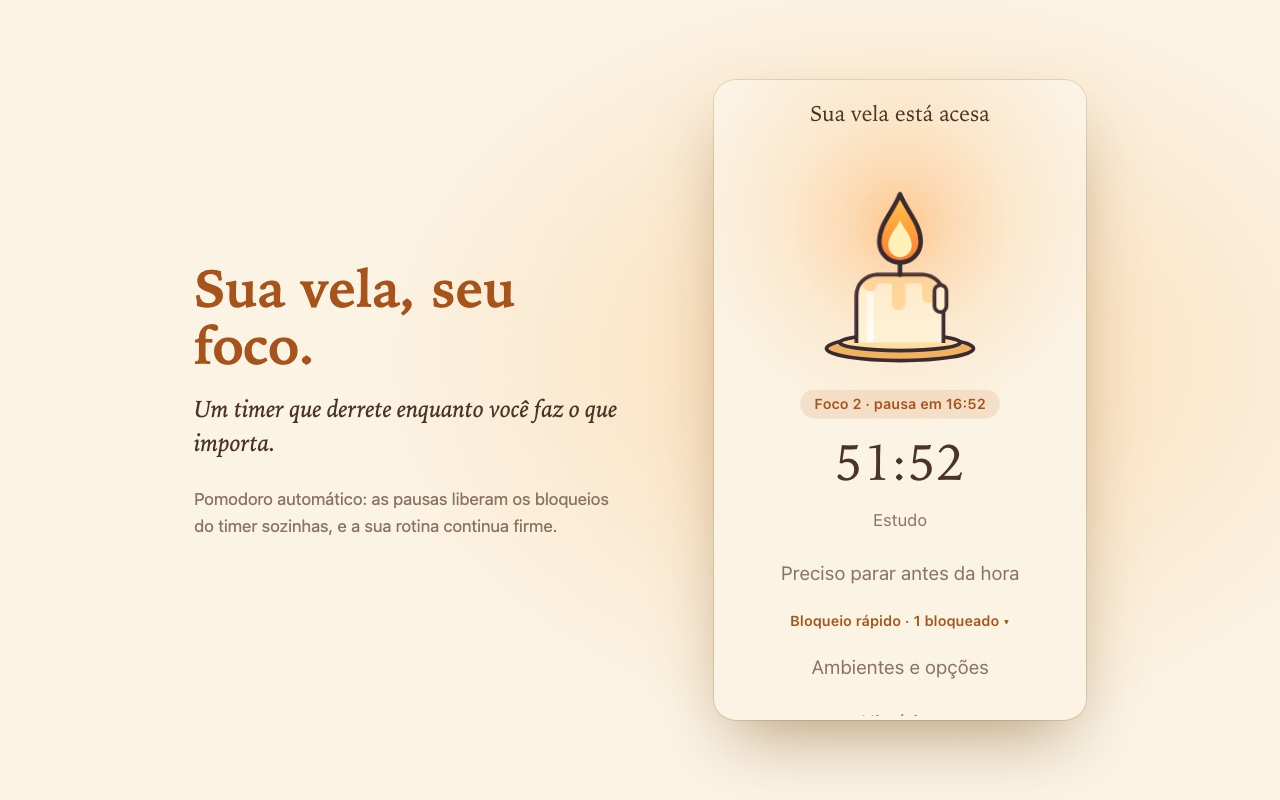
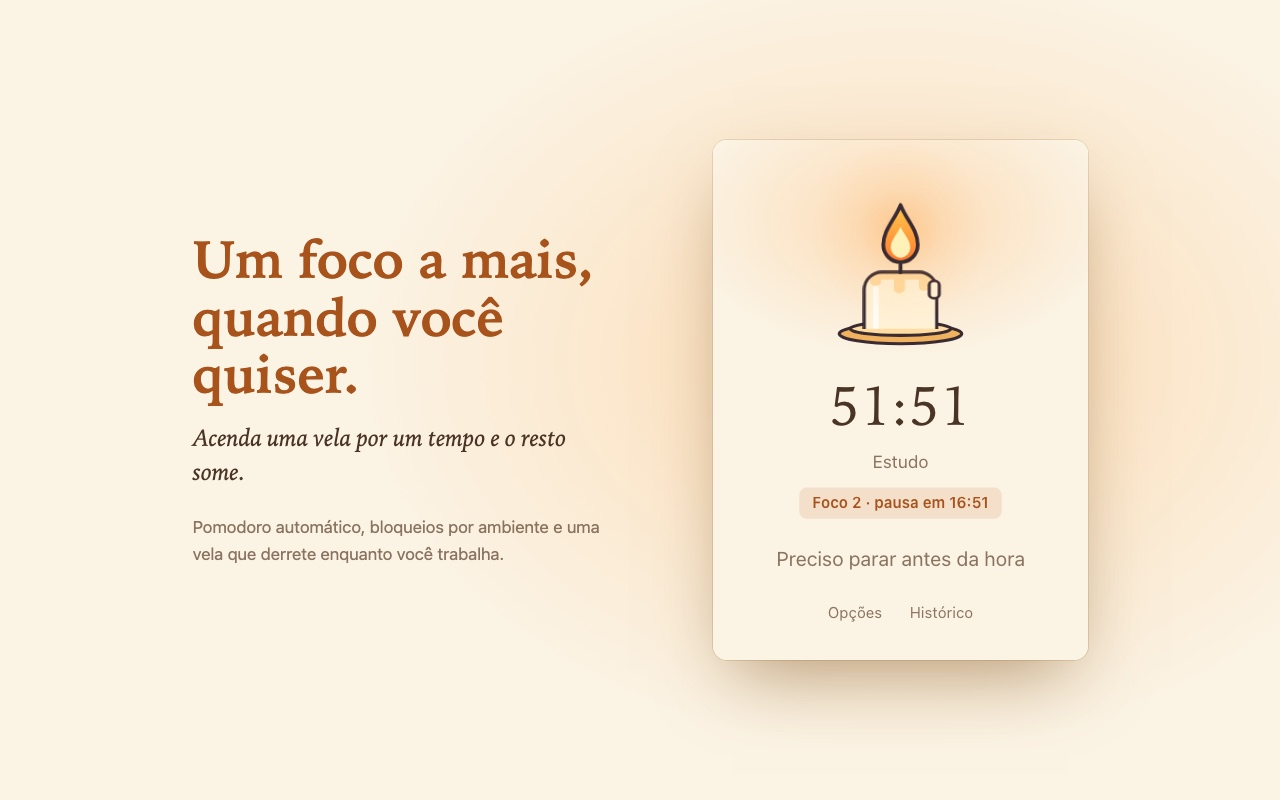
Popup minimalista: só o foco por tempo
Vela, ambiente, duração e Acender vela; modo, Pomodoro e links do YouTube
em Mais opções (recolhido). Bordas levemente arredondadas (8px). Removidos
o bloqueio rápido e o status da rotina do popup. Captura da loja atualizada.

diff --git a/src/ui/popup/main.tsx b/src/ui/popup/main.tsx
@@ -18,8 +18,6 @@ import { pomodoroError, youtubeUi } from '../i18n/pt-BR';
 import { ensureHostAccess } from '../../platform/chrome/permissions';
 import { createServices } from '../../platform/chrome/services';
 import { initTheme } from '../shared/theme';
-import { RoutineStatus } from '../shared/RoutineStatus';
-import { QuickBlock } from './QuickBlock';
 import { useNow } from '../shared/useNow';
 import { useStorageValue } from '../shared/useStorageValue';
 
@@ -68,8 +66,6 @@ function StartForm({ skin }: { skin: string }) {
 
   return (
     <>
-      <p class="greeting">Vamos acender uma vela?</p>
-      <RoutineStatus />
       <div class="popup-candle small"><Candle skin={skin} progress={1} lit={false} label="Vela apagada" /></div>
       <form class="form" onSubmit={(e) => { e.preventDefault(); void start(); }}>
         <label>
@@ -81,37 +77,39 @@ function StartForm({ skin }: { skin: string }) {
 
         <div>
           <span class="lbl">Duração</span>
-          <div class="chips">
+          <div class="seg" role="group" aria-label="Duração">
             {DURATION_PRESETS_MIN.map((m) => (
-              <button type="button" class="chip" aria-pressed={!custom && minutes === m}
-                onClick={() => { setCustom(false); setMinutes(m); }}>{m} min</button>
+              <button type="button" aria-pressed={!custom && minutes === m} onClick={() => { setCustom(false); setMinutes(m); }}>{m} min</button>
             ))}
-            <button type="button" class="chip" aria-pressed={custom} onClick={() => setCustom(true)}>Outro</button>
+            <button type="button" aria-pressed={custom} onClick={() => setCustom(true)}>Outro</button>
           </div>
           {custom && (
-            <input class="field full" type="number" min={MIN_DURATION_MIN} max={MAX_DURATION_MIN} value={minutes}
+            <input class="field full minutes" type="number" min={MIN_DURATION_MIN} max={MAX_DURATION_MIN} value={minutes}
               aria-label="Minutos" onInput={(e) => setMinutes(Number(e.currentTarget.value))} />
           )}
         </div>
 
-        {usesYouTube && (
-          <details class="yt">
-            <summary>{youtubeUi.summary}</summary>
-            <textarea class="field full" rows={4} placeholder={youtubeUi.placeholder} value={links}
-              onInput={(e) => setLinks(e.currentTarget.value)} spellcheck={false} />
-            <p class="hint">{youtubeUi.help}</p>
-          </details>
-        )}
-
-        <PomodoroFields value={pomodoro} onChange={setPomodoro} />
-
-        <div>
-          <span class="lbl">Modo</span>
-          <div class="chips">
-            <button type="button" class="chip" title="Desistir dá trabalho, de propósito" aria-pressed={strictness === 'focus'} onClick={() => setStrictness('focus')}>Foco</button>
-            <button type="button" class="chip" title="Você pode parar com uma confirmação" aria-pressed={strictness === 'light'} onClick={() => setStrictness('light')}>Leve</button>
+        <details class="more">
+          <summary>Mais opções</summary>
+          <div class="more-body">
+            <div>
+              <span class="lbl">Ao parar antes da hora</span>
+              <div class="seg" role="group" aria-label="Modo">
+                <button type="button" title="Desistir dá trabalho, de propósito" aria-pressed={strictness === 'focus'} onClick={() => setStrictness('focus')}>Foco</button>
+                <button type="button" title="Você pode parar com uma confirmação" aria-pressed={strictness === 'light'} onClick={() => setStrictness('light')}>Leve</button>
+              </div>
+            </div>
+            <PomodoroFields value={pomodoro} onChange={setPomodoro} />
+            {usesYouTube && (
+              <label>
+                <span class="lbl">{youtubeUi.summary}</span>
+                <textarea class="field full" rows={3} placeholder={youtubeUi.placeholder} value={links}
+                  onInput={(e) => setLinks(e.currentTarget.value)} spellcheck={false} />
+                <span class="hint">{youtubeUi.help}</span>
+              </label>
+            )}
           </div>
-        </div>
+        </details>
 
         {error && <p class="error" role="alert">{error}</p>}
         <button class="btn btn-primary full" type="submit" disabled={!envs.length}>Acender vela</button>
@@ -131,8 +129,9 @@ function Running({ session, skin, now }: { session: Session; skin: string; now: 
   }
   return (
     <>
-      <p class="greeting">Sua vela está acesa</p>
       <div class="popup-candle"><Candle skin={skin} progress={candleProgress(session, now)} label="Vela acesa, sessão em andamento" /></div>
+      <p class="time">{formatRemaining(Math.min(remainingMs(session, now), session.plannedMs))}</p>
+      <p class="sub">{session.environmentSnapshot.name}</p>
       {phase && (
         <p class={`phase ${phase.phase}`} role="status">
           {phase.phase === 'break'
@@ -140,10 +139,6 @@ function Running({ session, skin, now }: { session: Session; skin: string; now: 
             : `Foco ${phase.cycle} · pausa em ${formatRemaining(phase.end - now)}`}
         </p>
       )}
-      <p class="time">{formatRemaining(Math.min(remainingMs(session, now), session.plannedMs))}</p>
-      <p class="sub">
-        {session.environmentSnapshot.name}
-      </p>
       <button class="btn btn-ghost" onClick={stop}>Preciso parar antes da hora</button>
     </>
   );
@@ -166,11 +161,10 @@ function Popup() {
   return (
     <main class="popup">
       {!loaded ? null : active ? <Running session={active} skin={skin} now={now} /> : <StartForm skin={skin} />}
-      <QuickBlock />
-      <div class="links">
-        <button class="btn btn-ghost" onClick={() => chrome.runtime.openOptionsPage()}>Ambientes e opções</button>
-        <button class="btn btn-ghost" onClick={() => chrome.tabs.create({ url: chrome.runtime.getURL('src/ui/options/index.html#historico') })}>Histórico</button>
-      </div>
+      <nav class="foot" aria-label="Atalhos">
+        <button onClick={() => chrome.runtime.openOptionsPage()}>Opções</button>
+        <button onClick={() => chrome.tabs.create({ url: chrome.runtime.getURL('src/ui/options/index.html#historico') })}>Histórico</button>
+      </nav>
     </main>
   );
 }

diff --git a/src/ui/popup/popup.css b/src/ui/popup/popup.css
@@ -1,38 +1,44 @@
-body { width: 310px; }
-.popup { display: flex; flex-direction: column; align-items: center; gap: 4px; padding: 14px 20px 8px;
-  background: radial-gradient(ellipse 80% 45% at 50% 20%, var(--glow), transparent 70%); }
-.greeting { margin: 0; font-family: var(--font-display); font-size: 18px; text-align: center; }
-.popup-candle { width: 150px; margin: 4px 0; }
-.popup-candle.small { width: 64px; margin: 0; }
-.time { margin: 0; font-family: var(--font-display); font-size: 42px; letter-spacing: .02em; font-variant-numeric: tabular-nums; }
-.sub { margin: 0 0 8px; color: var(--muted); font-size: 14px; }
-.form { width: 100%; display: flex; flex-direction: column; gap: 9px; margin-top: 2px; }
-.full { width: 100%; }
-.lbl { display: block; font-size: 12px; color: var(--muted); margin-bottom: 3px; font-weight: 600; }
-.chips { display: flex; gap: 5px; flex-wrap: wrap; margin-bottom: 4px; }
-.chip { background: var(--surface); border: 1px solid var(--border); border-radius: 999px; padding: 4px 10px; font-size: 13px; transition: all .15s; }
-.chip:hover { border-color: var(--muted); }
-.chip[aria-pressed="true"] { background: var(--accent); color: var(--accent-ink); border-color: transparent; font-weight: 650; }
-.hint { margin: 0; font-size: 12px; color: var(--muted); }
-.error { margin: 0; font-size: 13px; color: var(--danger); }
-.yt summary { cursor: pointer; font-size: 13px; color: var(--accent-text); font-weight: 600; margin-bottom: 6px; }
-.yt textarea { resize: vertical; font-size: 12px; margin-bottom: 4px; }
-.links { display: flex; gap: 2px; flex-wrap: wrap; justify-content: center; }
-.next { margin: 0; font-size: 12px; color: var(--accent-text); font-weight: 600; text-align: center; }
-.sched-tag { display: block; margin-top: 2px; font-size: 12px; color: var(--accent-text); font-weight: 600; }
-.phase { margin: 0; padding: 3px 12px; border-radius: 999px; font-size: 12px; font-weight: 600; background: color-mix(in srgb, var(--accent) 14%, transparent); color: var(--accent-text); }
-.phase.break { background: color-mix(in srgb, var(--ok) 16%, transparent); color: var(--ok); }
-.routine-line { margin: 0; background: transparent; border: 0; padding: 2px 8px; font-size: 12px; color: var(--muted); text-align: center; border-radius: 999px; }
-.routine-line:hover { background: var(--surface-2); color: var(--text); }
-.routine-line.on { color: var(--accent-text); font-weight: 600; }
-.routine-line.off { color: var(--accent-text); text-decoration: underline; }
+/* Popup minimalista: só o foco por tempo. Bordas levemente arredondadas (8 px), sem pílulas. */
+body { width: 300px; }
+.popup { --r: 8px; display: flex; flex-direction: column; align-items: center; gap: 10px; padding: 16px 18px 10px;
+  background: radial-gradient(ellipse 80% 38% at 50% 16%, var(--glow), transparent 72%); }
+.popup .btn, .popup .field, .popup .seg { border-radius: var(--r); }
+.popup .btn { padding: 9px 14px; }
+.popup .btn-primary { box-shadow: none; }
+.popup-candle { width: 120px; }
+.popup-candle.small { width: 64px; }
 
-.quick { width: 100%; margin-top: 2px; }
-.quick summary { cursor: pointer; font-size: 12px; font-weight: 600; color: var(--accent-text); text-align: center; list-style: none; padding: 2px 0; }
-.quick summary::-webkit-details-marker { display: none; }
-.quick summary::after { content: ' ▾'; }
-.quick[open] summary::after { content: ' ▴'; }
-.quick-chips { display: flex; flex-wrap: wrap; gap: 5px; justify-content: center; margin: 6px 0 4px; }
-.chip.block[aria-pressed="true"] { background: var(--mode-blocked); color: #fff; border-color: transparent; }
-:root[data-theme='night'] .chip.block[aria-pressed="true"] { color: #2a0a05; }
-.quick .hint { text-align: center; }
+.form { width: 100%; display: flex; flex-direction: column; gap: 14px; }
+.full { width: 100%; }
+.lbl { display: block; font-size: 12px; color: var(--muted); margin-bottom: 5px; font-weight: 600; }
+.hint { display: block; margin-top: 4px; font-size: 12px; color: var(--muted); }
+.error { margin: 0; font-size: 13px; color: var(--danger); }
+.field { padding: 8px 10px; }
+.minutes { margin-top: 8px; }
+
+/* escolha única, em faixa contínua */
+.seg { display: flex; border: 1px solid var(--border); overflow: hidden; background: var(--surface); }
+.seg button { flex: 1; background: transparent; border: 0; border-left: 1px solid var(--border); padding: 8px 4px; font-size: 13px; color: var(--muted); transition: background .15s, color .15s; }
+.seg button:first-child { border-left: 0; }
+.seg button:hover { color: var(--text); background: var(--surface-2); }
+.seg button[aria-pressed="true"] { background: var(--accent); color: var(--accent-ink); font-weight: 650; }
+
+.more summary { cursor: pointer; font-size: 13px; color: var(--muted); list-style: none; padding: 2px 0; }
+.more summary::-webkit-details-marker { display: none; }
+.more summary::before { content: '＋ '; }
+.more[open] summary::before { content: '－ '; }
+.more summary:hover { color: var(--text); }
+.more-body { display: flex; flex-direction: column; gap: 14px; padding-top: 10px; }
+.more textarea { resize: vertical; font-size: 12px; }
+/* Pomodoro dentro de "Mais opções": sem caixa */
+.popup .pomo { border: 0; padding: 0; background: transparent; border-radius: 0; }
+
+/* em andamento */
+.time { margin: 2px 0 0; font-family: var(--font-display); font-size: 44px; line-height: 1.1; letter-spacing: .02em; font-variant-numeric: tabular-nums; }
+.sub { margin: 0; color: var(--muted); font-size: 14px; }
+.phase { margin: 0; padding: 3px 10px; border-radius: 6px; font-size: 12px; font-weight: 600; background: color-mix(in srgb, var(--accent) 14%, transparent); color: var(--accent-text); }
+.phase.break { background: color-mix(in srgb, var(--ok) 16%, transparent); color: var(--ok); }
+
+.foot { display: flex; gap: 14px; justify-content: center; }
+.foot button { background: transparent; border: 0; padding: 2px 4px; font-size: 12px; color: var(--muted); }
+.foot button:hover { color: var(--text); text-decoration: underline; }

diff --git a/CLAUDE.md b/CLAUDE.md
@@ -107,7 +107,7 @@ Evitar: `tabs`, `history`, `webNavigation`, `scripting`, `<all_urls>` obrigatór
 ## Rotina por site e horário (`core/routine.ts`, `core/policy.ts`, `core/policy-service.ts`, `ui/options/RoutineTab.tsx`)
 - **Rotina** = lista de sites (`RoutineSite`), cada um com **faixas** (`RoutineSlot`: dias da semana + `startMin`/`endMin` + o que fazer: `blocked` ou `restricted` com `restrictedKind`/`features`). Fora das faixas o site fica liberado. `endMin <= startMin` vira a noite; `endMin = 1440` = até o fim do dia; **dia todo + todos os dias = "para sempre"**. Funciona **sozinha, sem vela**, e substitui as antigas "faixas de horário" (migração v3 converte as faixas existentes; quem não tinha recebe a programação pronta).
 - **Rotina LIMPA por padrão** (`defaultRoutine() = []`): nada vem bloqueado nem programado; a pessoa escolhe sites, horários e o que fazer. (A v3 instalava uma "programação pronta" desligada; a migração **v4** limpa quem ficou com ela sem alterar e liga os horários; quem personalizou não é tocado.) `Settings.routineEnabled` vem **ligado** (rotina vazia não faz nada) e controla só as **faixas de horário**. Uma faixa nova **não vem com Bloqueado/Restrito pré-escolhido**: o editor exige escolher (`mode:invalid`). Na primeira instalação o service worker abre `options#rotina`.
-- **Bloqueio rápido** (`RoutineSite.blockAll`, `setBlockAll`/`isBlockedAll` em `core/routine.ts`): bloqueia o **app inteiro, o tempo todo, com um clique**. Painel no topo da Rotina (um botão por app + "Bloquear/Liberar todos" + campo para outro site) e atalho **recolhido no popup** (`popup/QuickBlock.tsx`). **Vale mesmo com os horários desligados** (é uma ação direta); desligar o site na rotina o libera. Em `activeRules`/`rulesAnyTime` entra como `blocked` (a mais rigorosa) e a linha do site vira uma barra cheia "Bloqueado o tempo todo". Pede o acesso ao site no clique e a confirmação ao liberar (`loosensNow`).
+- **Bloqueio rápido** (`RoutineSite.blockAll`, `setBlockAll`/`isBlockedAll` em `core/routine.ts`): bloqueia o **app inteiro, o tempo todo, com um clique**. Painel no topo da Rotina (um botão por app + "Bloquear/Liberar todos" + campo para outro site) (o atalho que existiu no popup foi removido: o popup é só do Timer). **Vale mesmo com os horários desligados** (é uma ação direta); desligar o site na rotina o libera. Em `activeRules`/`rulesAnyTime` entra como `blocked` (a mais rigorosa) e a linha do site vira uma barra cheia "Bloqueado o tempo todo". Pede o acesso ao site no clique e a confirmação ao liberar (`loosensNow`).
 - **Timer = foco extra:** a vela (sessão) com um **Ambiente** continua existindo; as regras do ambiente valem **por cima** da rotina durante o Timer. Ambientes agora servem só ao Timer (aba "Ambientes (Timer)").
 - **Política** (`Policy`, chave `policy`): `computePolicy({routine, routineEnabled, session, now})` = regras da rotina ativas agora + regras do Timer (se `enforcing`), por site **vale a mais rigorosa** (`combineSpecs`: bloqueado > esconder partes (soma os recursos) > intenção). Na pausa do Pomodoro some só a parte do Timer; a rotina continua firme. Também traz `youtubeAllowlist` (da vela) e `nextChange` (para "volta a liberar às…").
 - **Quem escreve/quem lê:** `PolicyService.sync()` (idempotente) conclui a vela vencida, calcula e grava a política (só se mudou), descarta permissões de intenção que não valem mais (`IntentService.prune`) e agenda o alarme `routine-boundary` para a próxima virada de faixa. Bloqueio (DNR, `planFor(policy)`) e **content scripts** só **leem `policy`** (`restrictionFor(policy, …)`, `youtubeRestriction(policy)`), nunca a sessão.
@@ -124,7 +124,8 @@ Evitar: `tabs`, `history`, `webNavigation`, `scripting`, `<all_urls>` obrigatór
 - `pomodoroAt(config, startedAt, endsAt, now)` é puro e determinístico (por isso vale mesmo com o navegador fechado). A fase atual fica gravada em `Session.pomodoro` (`phase`, `cycle`, `long`, `phaseEndsAt`).
 - `SessionService.syncPomodoro` (chamado em `start`, `startScheduled` e `reconcile`) mantém a fase gravada em dia, notifica a troca ("Hora da pausa" / "De volta ao foco") e agenda o alarme `pomodoro-phase` para a próxima troca. Quem bloqueia/restringe **só lê a política**: `computePolicy` usa `enforcing(session)` (sessão ativa e fora da pausa) para incluir ou não a parte do Timer. Gravar a nova fase dispara `syncAll` via `storage.onChanged`, que regrava a política.
 - Na pausa: as regras **do Timer** saem da política (a rotina continua), então DNR e content scripts soltam só o que o Timer acrescentava, a página de bloqueio mostra "Hora da pausa" com botão para abrir o site e a de intenção segue direto. Concedidas permissões de intenção são mantidas.
-- Popup: mostra "Foco N · pausa em mm:ss" / "Pausa · mm:ss · bloqueios liberados" (calculado pelo relógio local). Campos compartilhados: `ui/shared/PomodoroFields.tsx`. O popup tem limite de ~600 px de altura (Chrome): cuidado ao adicionar campos.
+- Popup: mostra "Foco N · pausa em mm:ss" / "Pausa · mm:ss · bloqueios liberados" (calculado pelo relógio local). Campos compartilhados: `ui/shared/PomodoroFields.tsx`.
+- **Popup minimalista (só o Timer):** vela, ambiente, duração (faixa contínua 25/50/90/Outro) e "Acender vela"; modo (foco/leve), Pomodoro e links do YouTube ficam em **"Mais opções"** recolhido; rodapé "Opções · Histórico". Bordas levemente arredondadas (`--r: 8px`, sem pílulas) só no popup. Parado tem ~390 px (limite do Chrome: ~600 px); com Mais opções aberto e tudo ligado passa disso e rola. Sem bloqueio rápido nem status da rotina aqui (isso é da aba Rotina).
 
 ## Chrome Web Store (`store/`, `scripts/`)
 - `npm run package` → build + `release/pavio-<versão>.zip` (confere se a versão do manifest bate com a do package.json; `release/` está no `.gitignore`). `publicDir: false` no Vite: os ícones vão só em `public/icons/` (referenciados pelo manifest), sem duplicar.

diff --git a/store/privacy-practices.md b/store/privacy-practices.md
@@ -72,5 +72,5 @@ Não é necessária conta nem login para testar o fluxo principal.
 3. Abra reddit.com em uma nova aba: a navegação é redirecionada para a página da vela (bloqueio). Clique de novo no botão do reddit.com e o site volta a abrir.
 4. Timer: clique no ícone do Pavio, escolha "Outro" e 2 (minutos), ambiente "Estudo", e "Acender vela" (o Chrome pede acesso aos sites do ambiente). "Preciso parar antes da hora" abre a tela de atrito (espera de 10 s + frase "eu quero desistir do meu foco agora").
 5. Modo restrito (sem login): criando uma faixa "Sempre" restrita ("Esconder partes") para Instagram, LinkedIn ou YouTube, abrir instagram.com/reels/, instagram.com/explore/ ou linkedin.com/video/ redireciona para a vela (a decisão é só pela URL). No YouTube, youtube.com/shorts/... redireciona e a home mostra um aviso no lugar do feed.
-6. Pomodoro: no timer, ligue "Pomodoro automático" com foco 1 min e pausa 1 min: na pausa os bloqueios do timer se desligam.
+6. Pomodoro: no popup, abra "Mais opções", ligue "Pomodoro automático" com foco 1 min e pausa 1 min e acenda a vela: na pausa os bloqueios do timer se desligam.
 ```

diff --git a/store/listing.pt-BR.md b/store/listing.pt-BR.md
@@ -68,7 +68,7 @@ OBSERVAÇÕES
 ```
 
 ## Legendas sugeridas para as capturas de tela
-1. `01-popup.jpg` — **Sua vela, seu foco.** Timer em forma de vela, com Pomodoro automático.
+1. `01-popup.jpg` — **Um foco a mais, quando você quiser.** O timer em forma de vela, com Pomodoro automático.
 2. `02-rotina.jpg` — **Sua rotina, hora a hora.** Uma linha do tempo por site, com o que fica restrito em cada horário.
 3. `03-rotina-editar.jpg` — **Escolha exatamente o que esconder.** Dias, horário e as partes de cada serviço.
 4. `04-historico.jpg` — **Horas devolvidas.** Seu histórico, só no seu navegador.
